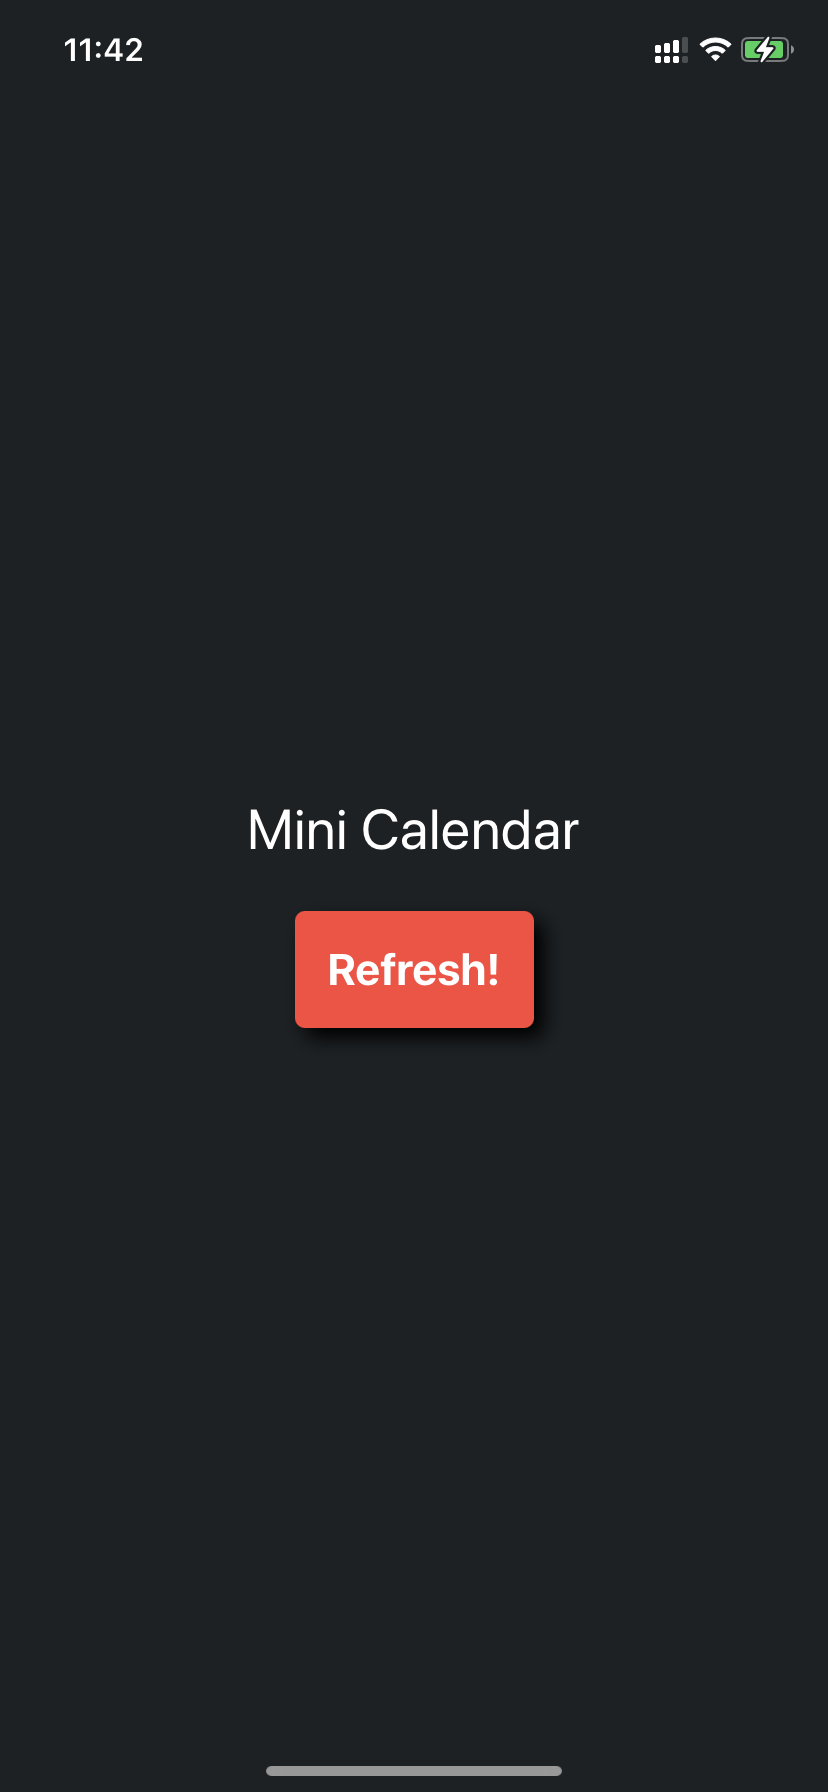
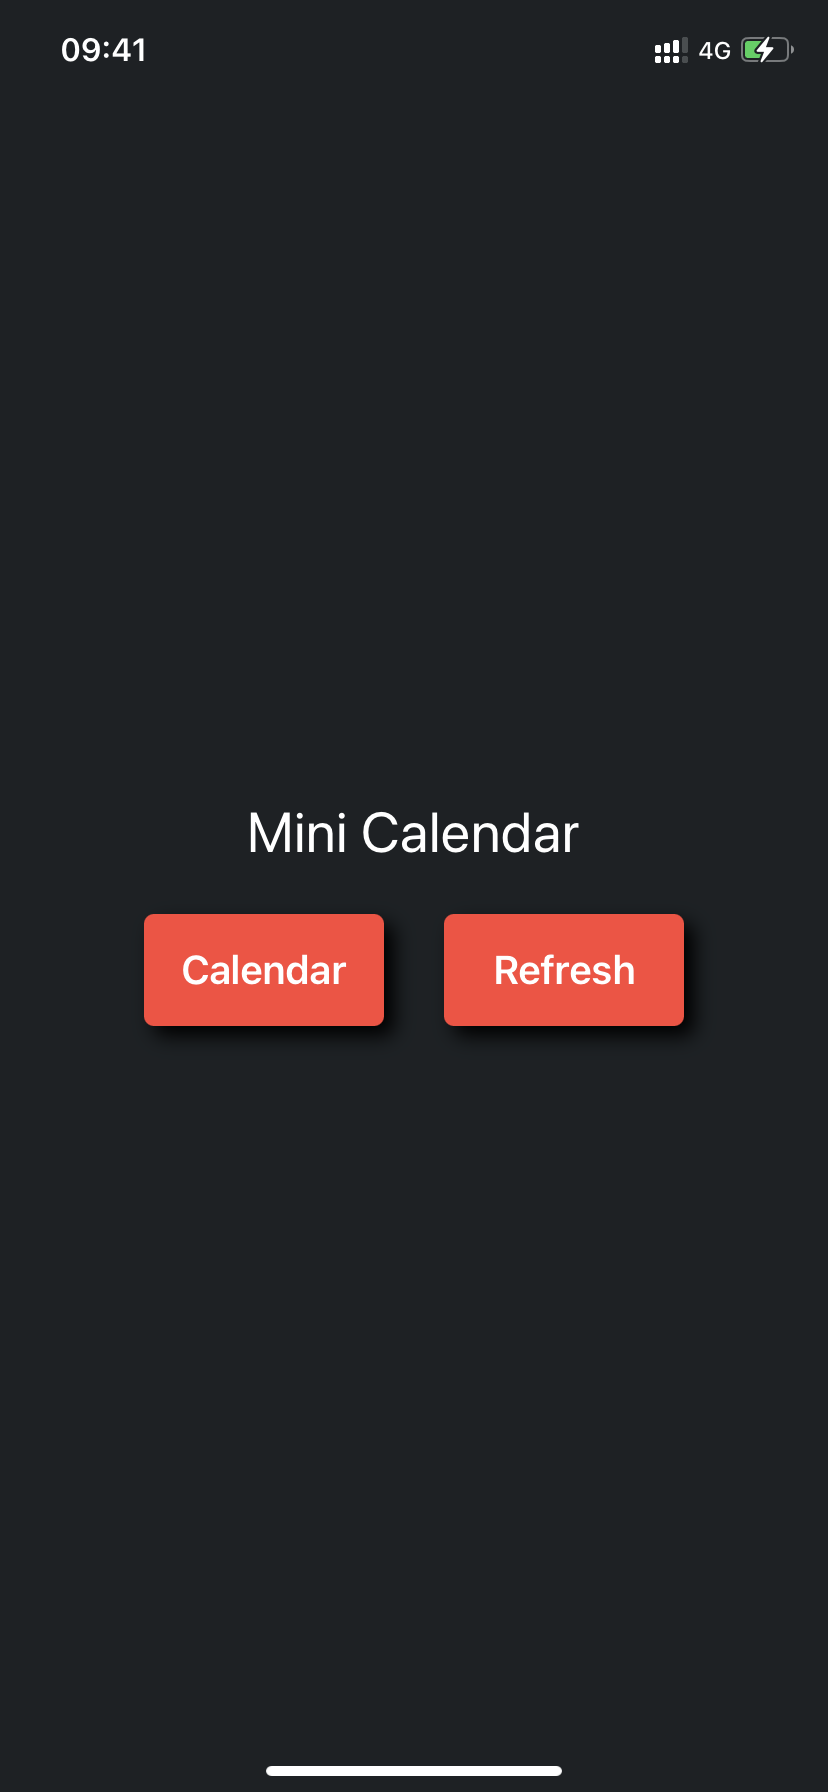
1.1

diff --git a/MiniCal/MiniCal/ContentView.swift b/MiniCal/MiniCal/ContentView.swift
@@ -44,8 +44,8 @@ struct ContentView: View {
                         self.showingCalendarAlert = true
                     }
                     .alert(isPresented: $showingCalendarAlert) {
-                        Alert(title: Text("Open System's Calendar？"),
-                              primaryButton: .default(Text("Yes"),
+                        Alert(title: Text("Open Calendar？"),
+                              primaryButton: .default(Text("OK"),
                                                       action: {
                                                         UIApplication.shared.open(.calendar)
                                                       }),
@@ -57,7 +57,7 @@ struct ContentView: View {
                     }
                     .alert(isPresented: $showingRefreshAlert) {
                         Alert(title: Text("Refresh Mini Calendar Widget？"),
-                              primaryButton: .default(Text("Yes"),
+                              primaryButton: .default(Text("OK"),
                                                       action: {
                                                         WidgetCenter.shared.reloadAllTimelines()
                                                       }),

diff --git a/MiniCal/MiniCal/SceneDelegate.swift b/MiniCal/MiniCal/SceneDelegate.swift
@@ -23,25 +23,11 @@ class SceneDelegate: UIResponder, UIWindowSceneDelegate {
 
             self.window = window
             window.makeKeyAndVisible()
-            showAlert(scene, contexts: connectionOptions.urlContexts)
+    
         }
 
     }
 
-    
-    func scene(_ scene: UIScene, openURLContexts URLContexts: Set<UIOpenURLContext>) {
-        showAlert(scene, contexts: URLContexts)
-    }
-    
-    func showAlert(_ scene: UIScene, contexts: Set<UIOpenURLContext>) {
-        window?.alert("Open System's Calendar？", actionTitle: "Yes", handler: {
-            
-            guard let url = contexts.first?.url,  UIApplication.shared.canOpenURL(url) else {
-                return
-            }
-            scene.open(url, options: .none, completionHandler: .none)
-            
-        })
-    }
+   
 }
 

diff --git a/MiniCal/MiniCal/MiniCalExtension.swift b/MiniCal/MiniCal/MiniCalExtension.swift
@@ -96,23 +96,3 @@ extension Date {
 }
 
 
-import UIKit
-extension UIWindow {
-    
-    func alert(_ title: String, actionTitle: String, handler: @escaping () -> Void) {
-        
-        let alert = UIAlertController(title: title, message: .none, preferredStyle: .alert)
-        let cancel = UIAlertAction(title: "Cancel", style: .cancel, handler: .none)
-        alert.addAction(cancel)
-        
-        let action = UIAlertAction(title: actionTitle, style: .default, handler: { _ in
-            handler()
-        })
-        alert.addAction(action)
-        
-        rootViewController?.present(alert, animated: true, completion: .none)
-    }
-}
-
-
-

diff --git a/README.md b/README.md
@@ -1,5 +1,5 @@
 # MiniCalendar
-这是一个基于 iOS14 使用 SwiftUI 开发的日历小组件。
+一个基于 iOS14 使用 SwiftUI 开发的日历小组件。
 - 运行环境：iOS 14.0 或以上
 
 ## 版本
@@ -7,6 +7,7 @@
 | 版本 |  说明 |
 | ----  | ---- |
 | 1.0 | - |
+| 1.1 | - 增加跳转系统日历按钮 </br> - 点击按钮时出现操作提示 |
 
 
 
@@ -15,8 +16,6 @@
 - 主页
 
 <img src="Previews/l1.PNG" width=150> <img src="Previews/d1.PNG" width=150> 
-
-按钮用于手动刷新小组件
 
 ---
 
